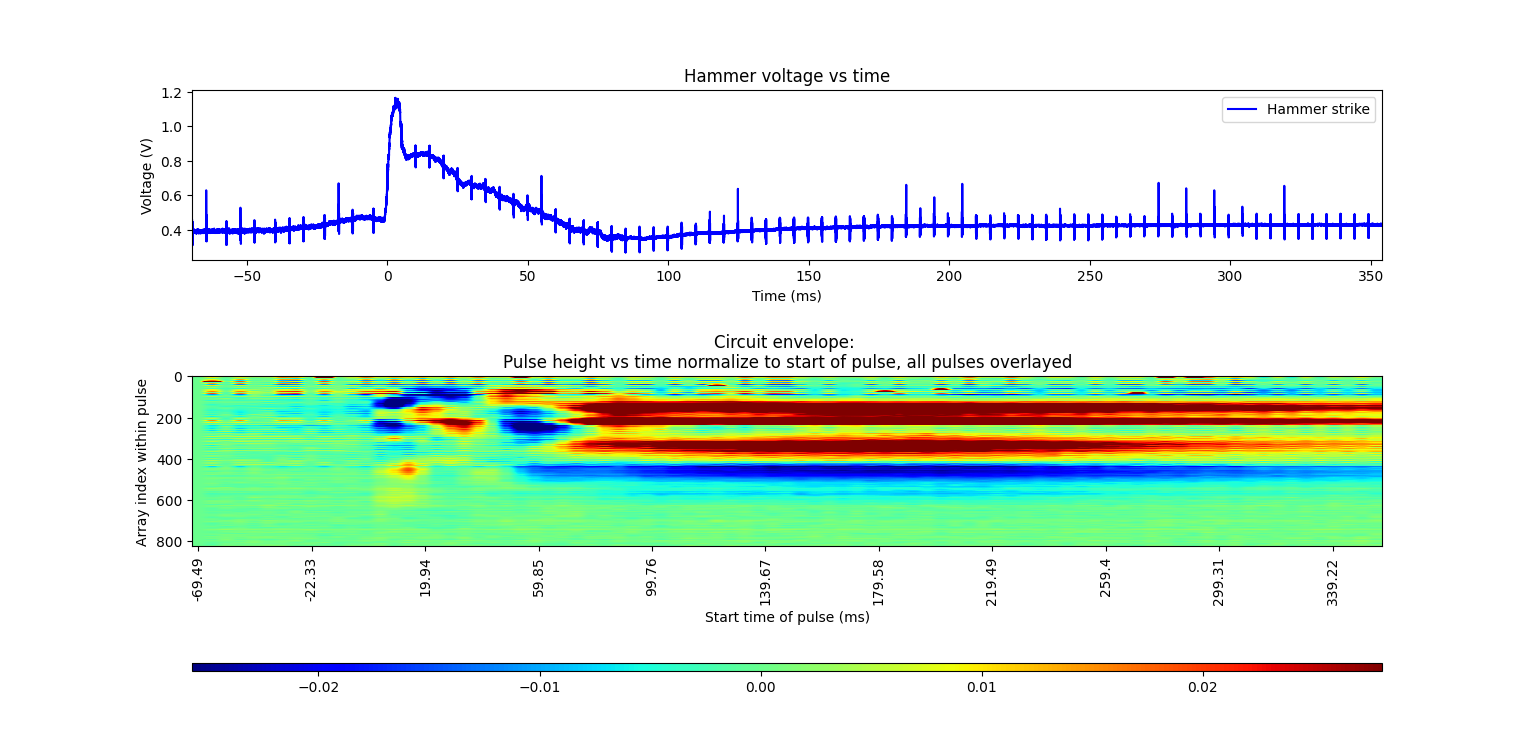
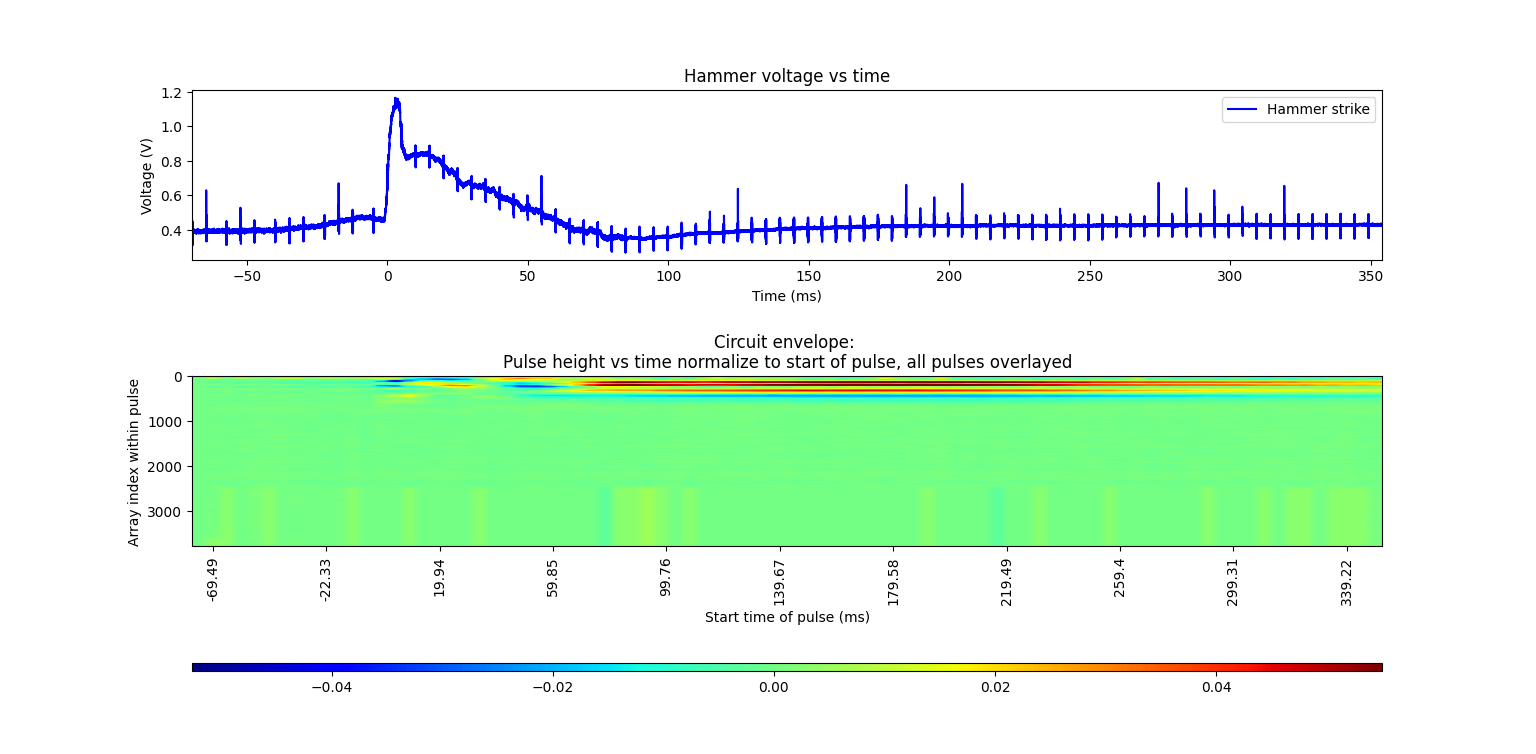
briefly got 2d analysis working on box data, saving before I delte

diff --git a/src/data_analysis_jupyter/analyze_Pico_data.py b/src/data_analysis_jupyter/analyze_Pico_data.py
@@ -650,7 +650,7 @@ def plot_2d(input_file_array, legends, use_integral = True, use_calculated_env =
     total_sum_signal_times = []
     total_sum_signal_voltages = []
     i = 0
-    ignore_start_of_pulse = False
+    ignore_start_of_pulse = True
     
     # Find y-limit
     abs_max = 0
@@ -673,6 +673,7 @@ def plot_2d(input_file_array, legends, use_integral = True, use_calculated_env =
         arr_of_interest = calculated_envelope_reshaped if use_calculated_env else circuit_env_reshaped
         these_times = []
         these_lines = []
+        
             # Average each pulse
         for r in range(NUM_PULSES):
 
@@ -684,13 +685,15 @@ def plot_2d(input_file_array, legends, use_integral = True, use_calculated_env =
 
             # Slice off the beginning of the pulse
             noise_border_index = 0
+            first_pulse = arr_of_interest[0]
             if (ignore_start_of_pulse):
                 noise_border = 0.2 # Only look at the part of the pulse after this time in ms in the pulse
                 noise_border_index = np.searchsorted(times_of_interest, noise_border + times_of_interest[0], side='right')
                 times_of_interest = times_of_interest[noise_border_index:]
                 pulse_of_interest = pulse_of_interest[noise_border_index:]
+                first_pulse = first_pulse[noise_border_index:]
 
-            if use_abs: pulse_of_interest = np.abs(pulse_of_interest - arr_of_interest[0][noise_border_index:])
+            if use_abs: pulse_of_interest = np.abs(pulse_of_interest - first_pulse)
 
             if use_integral: these_lines.append(np.sum(pulse_of_interest)*dt)
             else: these_lines.append(np.average(pulse_of_interest))
@@ -772,48 +775,10 @@ def plot_2d(input_file_array, legends, use_integral = True, use_calculated_env =
 
 
 if __name__ == "__main__":
-    # REMINDER: col_index_order: col_indexes = [times, hammer, transmit, recieved, circuit_env, emg = 1]
-    
-    # !!!!!!!!!!!!!!!!!!!!!!!!!!!!!!!!!!!!!!!!!!!!!!!!!!!! Example usage: Uncomment to analyze one trial.
-    ''' 
-    # !!!!!!!!!!!!!!! User should edit: file_name, col_order as needed.
-    file_name = "src/app_v1/data_from_experiments/lower_resolution_longer_time_trials/rachel/Pico/rachel_9_4_24/rachel5.csv"
-    col_order = [0, 3, 4, 1, 2, 1]  # time, recieved, env, hammer, square
-    # !!!!!!!!!!!!!!!
 
-    # 1. Replace "infinity" signs in oscilloscope file if present, and shape into numpy dataframe.
-    very_negative_number = -100
-    very_positive_number = 100
-    file_folder_name = file_name[:file_name.rindex("/")]
-    specific_file_name = file_name[file_name.rindex("/")+1:file_name.rindex(".")]
-    my_csv = pd.read_csv(file_name,skiprows=1, sep=',' if file_name[-1]=="v" else "\s+")
-    my_csv.replace([float('-inf'), '-∞'], very_negative_number, inplace=True)
-    my_csv.replace([float('inf'), '∞'], very_positive_number, inplace=True)
-    my_csv = my_csv.to_numpy()
-
-    # 2. Get reshaped arrays. 
-    my_arr = get_reshaped_arrays(my_csv, col_order)
-   
-    # 3. Plots! These will save in the same folder that the file you are reading is in (unless you edit file_folder_name)
-    
-    # Heat map of circuit envelope
-    plot_heat_map(my_arr, folder_path=file_folder_name, png_name=specific_file_name, stddev=6, plot_circuit_env=True)
-
-    # Heat map of calculated envelope
-    plot_heat_map(my_arr, folder_path=file_folder_name, png_name=specific_file_name, stddev=6, plot_circuit_env=False)
-    
-    # GIF of calculated envelope and recieved pulses.
-    # get_gif(my_csv, col_order, save_as_mp4=False, plot_circuit_envelope = False, file_folder_name=file_folder_name, specific_file_name=specific_file_name)
-    
-    # 2D average map of calculated envelope.
-    # input_file_array = [my_arr]
-    # legends = [specific_file_name]
-    # plot_2d(input_file_array, legends, folder=file_folder_name, title=specific_file_name)
-    # '''
-
-    # !!!!!!!!!!!!!!!!!!!!!!!!!!!!!!!!!!!!!!!!!!!!!!!!!!!! Example usage: Analyzing multiple trials in one experiment 
-    # !!!!!!!!!!!!!!!!!!!!!!!!!!!!!!!!!!!!!!!!!!!!!!!!!!!! (2D line plot and average heatmap) 
-    #'''
+    #####################################################################################################
+    ################                     Commonly processed files                      ##################
+    #####################################################################################################
 
     # SINA: 
     # T1-T5: B1.5 (lasts ~110 ms) – Reflex starts between 60 ms and 66.81 ms
@@ -890,12 +855,80 @@ if __name__ == "__main__":
         "src/app_v1/data_from_experiments/reflex_by_subject/Pico/rachel/rachel_no_box/rachel_t9.csv",
         "src/app_v1/data_from_experiments/reflex_by_subject/Pico/rachel/rachel_no_box/rachel_t10.csv"
     ]
+
+    #####################################################################################################
+    #####################################################################################################
+    #####################################################################################################
+
+    # REMINDER: col_index_order: col_indexes = [times, hammer, transmit, recieved, circuit_env, emg = 1]
+    
+    # !!!!!!!!!!!!!!!!!!!!!!!!!!!!!!!!!!!!!!!!!!!!!!!!!!!! Example usage: Uncomment to analyze one trial.
+    #''' 
+    # !!!!!!!!!!!!!!! User should edit: file_name, col_order as needed.
+    file_name = box_file_names_sina_B5point5[0]
+    col_order = [0, 3, 4, 1, 2, 1]  # time, recieved, env, hammer, square
+    # !!!!!!!!!!!!!!!
+
+    # 1. Replace "infinity" signs in oscilloscope file if present, and shape into numpy dataframe.
+    very_negative_number = -100
+    very_positive_number = 100
+    file_folder_name = file_name[:file_name.rindex("/")]
+    specific_file_name = file_name[file_name.rindex("/")+1:file_name.rindex(".")]
+    my_csv = pd.read_csv(file_name,skiprows=1, sep=',' if file_name[-1]=="v" else "\s+")
+    my_csv.replace([float('-inf'), '-∞'], very_negative_number, inplace=True)
+    my_csv.replace([float('inf'), '∞'], very_positive_number, inplace=True)
+    my_csv = my_csv.to_numpy()
+
+    # 2. Get reshaped arrays. 
+    my_arr = get_reshaped_arrays(my_csv, col_order)
+   
+    # 3. Plots! These will save in the same folder that the file you are reading is in (unless you edit file_folder_name)
+    
+    # Heat map of circuit envelope
+    # plot_heat_map(my_arr, folder_path=file_folder_name, png_name=specific_file_name, stddev=6, plot_circuit_env=True)
+
+    # Heat map of calculated envelope
+    plot_heat_map(my_arr, folder_path=file_folder_name, png_name=specific_file_name, stddev=6, plot_circuit_env=False)
+
+    # plot 2D
+    #'''
+    hammer_times = my_arr[0]
+    hammer_recieved = my_arr[1]
+    emg_recieved = my_arr[2]
+    cuff_times_reshaped = my_arr[3]
+    cuff_recieved_reshaped = my_arr[4]
+    circuit_env_reshaped = my_arr[5]
+    calculated_envelope_reshaped = my_arr[6]
+    time_ticks = my_arr[7]
+    NUM_PULSES = my_arr[8]
+    new_pulse_arr = []
+    new_time_arr = cuff_times_reshaped[:,0]
+    first_pulse = calculated_envelope_reshaped[0]
+    for r in range(NUM_PULSES):
+        this_pulse = calculated_envelope_reshaped[r]
+        new_pulse_arr.append(np.average(np.abs(this_pulse[150:] - first_pulse[150:])))
+    plt.plot(new_time_arr, new_pulse_arr)
+    plt.show()
+    #'''
+
+    # GIF of calculated envelope and recieved pulses.
+    # get_gif(my_csv, col_order, save_as_mp4=False, plot_circuit_envelope = False, file_folder_name=file_folder_name, specific_file_name=specific_file_name)
+    
+    # 2D average map of calculated envelope.
+    # input_file_array = [my_arr]
+    # legends = [specific_file_name]
+    # plot_2d(input_file_array, legends, folder=file_folder_name, title=specific_file_name)
+    # '''
+
+    # !!!!!!!!!!!!!!!!!!!!!!!!!!!!!!!!!!!!!!!!!!!!!!!!!!!! Example usage: Analyzing multiple trials in one experiment 
+    # !!!!!!!!!!!!!!!!!!!!!!!!!!!!!!!!!!!!!!!!!!!!!!!!!!!! (2D line plot and average heatmap) 
+    #'''
     
     # !!!!!!!!!!!!!!! User should edit: legends, col_order, file_names as needed.
-    legends = ["T1", "T2", "T3", "T4", "T5"]
+    legends = ["T1", "T2", "T3", "T4", "T5", "T6", "T7", "T8", "T9", "T10"]
     col_order = [0, 3, 4, 1, 2, 1]  # time, recieved, ENVELOPE, hammer, square
-    file_names = pico_file_names_sina_P4
-    experiment_name = "Exp_Summary_Sina_Pico_4ms"
+    file_names = box_file_names_sina_B5point5
+    experiment_name = "Exp_Summary_Sina_B5.5"
     analyze_circuit_env = False
     # !!!!!!!!!!!!!!!
 
@@ -910,7 +943,10 @@ if __name__ == "__main__":
         specific_file_name = file_name[file_name.rindex("/")+1:file_name.rindex(".")]
 
         # Read the CSV and reshape the array.
-        trial_csv = pd.read_csv(file_name,skiprows=1, sep=',' if file_name[-1]=="v" else "\s+").to_numpy()
+        trial_csv = pd.read_csv(file_name,skiprows=1, sep=',' if file_name[-1]=="v" else "\s+")
+        trial_csv.replace([float('-inf'), '-∞'], -100, inplace=True)
+        trial_csv.replace([float('inf'), '∞'], 100, inplace=True)
+        trial_csv = trial_csv.to_numpy()
         trial_arr = get_reshaped_arrays(trial_csv, col_order)
         reshaped_array_of_interest = trial_arr[5] if analyze_circuit_env else trial_arr[6]
         input_files_across_trials.append(trial_arr)
@@ -939,7 +975,7 @@ if __name__ == "__main__":
 
     ############################################## ACTUAL PLOTTING #############################################    
     # Plot the overlayed line plots of each trial. The saved image will have the variance across lines in it.
-    plot_2d(input_files_across_trials, legends, use_abs=True, use_calculated_env=False, folder=file_folder_name, title=experiment_name)
+    # plot_2d(input_files_across_trials, legends, use_abs=True, use_calculated_env=True, folder=file_folder_name, title=experiment_name)
 
     # Plot the average heatmap across all trials for this experiment.
     # plot_heat_map(combined_input_file, stddev=6, plot_circuit_env=analyze_circuit_env, folder_path=file_folder_name, png_name=experiment_name+"_average")
